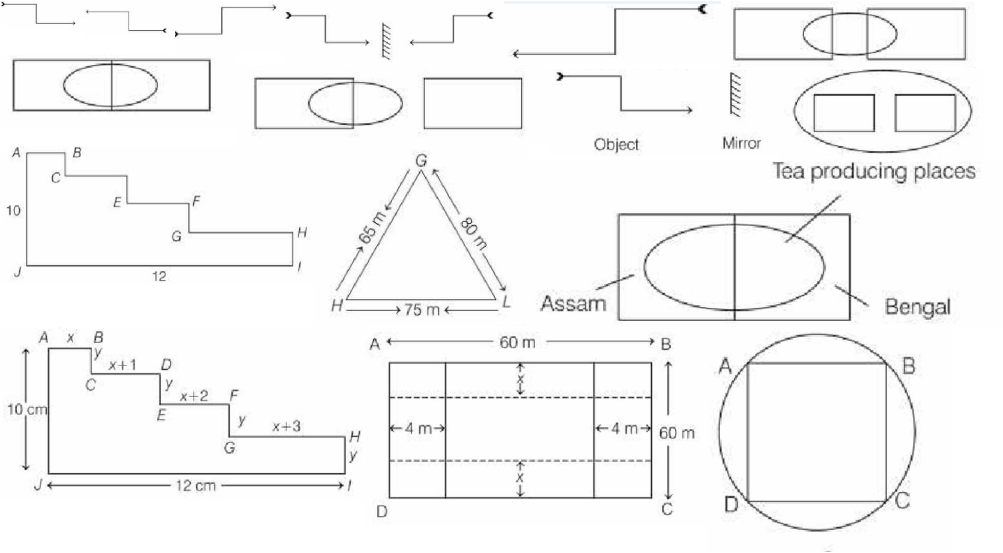
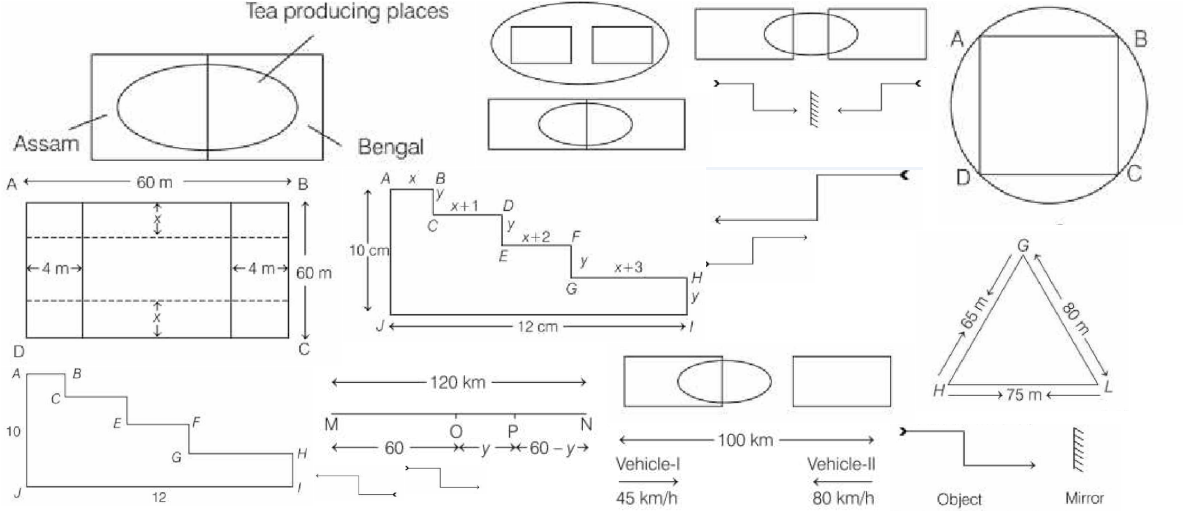
Fixed

diff --git a/img/upsc/epfo/prev/epfo_set1.css b/img/upsc/epfo/prev/epfo_set1.css
@@ -8,52 +8,58 @@ Responsive: <div class="yourspritesname"></div>
 
 
 .EPFO_2012_S_3 {max-width:213px; max-height:180px; }
-.EPFO_2012_S_3::after {content: '\00a0';display: inline-block; width:213px; height:180px; background-position: 39.74683544303797% 39.14209115281501%;background-size: 470.8920187793427% 307.22222222222223%;background-image: url(epfo_set1.png);padding: 0; }
+.EPFO_2012_S_3::after {content: '\00a0';display: inline-block; width:213px; height:180px; background-position: 94.33573635427395% 69.57831325301204%;background-size: 555.868544600939% 284.44444444444446%;background-image: url(epfo_set1.png);padding: 0; }
 div.EPFO_2012_S_3::after {max-width:213px; width:100%;height:0;padding: 0 0 84.50704225352112% 0;}
 .EPFO_2015_S_49 {max-width:341px; max-height:198px; }
-.EPFO_2015_S_49::after {content: '\00a0';display: inline-block; width:341px; height:198px; background-position: 54.98489425981873% 92.3943661971831%;background-size: 294.1348973607038% 279.2929292929293%;background-image: url(epfo_set1.png);padding: 0; }
+.EPFO_2015_S_49::after {content: '\00a0';display: inline-block; width:341px; height:198px; background-position: 0.11862396204033215% 53.503184713375795%;background-size: 347.2140762463343% 258.5858585858586%;background-image: url(epfo_set1.png);padding: 0; }
 div.EPFO_2015_S_49::after {max-width:341px; width:100%;height:0;padding: 0 0 58.064516129032256% 0;}
 .EPFO_2015_S_79 {max-width:312px; max-height:139px; }
-.EPFO_2015_S_79::after {content: '\00a0';display: inline-block; width:312px; height:139px; background-position: 0.1447178002894356% 35.265700483091784%;background-size: 321.47435897435895% 397.841726618705%;background-image: url(epfo_set1.png);padding: 0; }
+.EPFO_2015_S_79::after {content: '\00a0';display: inline-block; width:312px; height:139px; background-position: 0.11467889908256881% 98.39142091152814%;background-size: 379.4871794871795% 368.3453237410072%;background-image: url(epfo_set1.png);padding: 0; }
 div.EPFO_2015_S_79::after {max-width:312px; width:100%;height:0;padding: 0 0 44.55128205128205% 0;}
 .EPFO_2015_S_79_S {max-width:362px; max-height:174px; }
-.EPFO_2015_S_79_S::after {content: '\00a0';display: inline-block; width:362px; height:174px; background-position: 0.15600624024961% 86.2796833773087%;background-size: 277.0718232044199% 317.81609195402297%;background-image: url(epfo_set1.png);padding: 0; }
+.EPFO_2015_S_79_S::after {content: '\00a0';display: inline-block; width:362px; height:174px; background-position: 41.72749391727494% 49.70414201183432%;background-size: 327.0718232044199% 294.2528735632184%;background-image: url(epfo_set1.png);padding: 0; }
 div.EPFO_2015_S_79_S::after {max-width:362px; width:100%;height:0;padding: 0 0 48.06629834254144% 0;}
 .EPFO_2017_109_O_1 {max-width:206px; max-height:91px; }
-.EPFO_2017_109_O_1::after {content: '\00a0';display: inline-block; width:206px; height:91px; background-position: 97.74153074027603% 14.935064935064934%;background-size: 486.8932038834951% 607.6923076923077%;background-image: url(epfo_set1.png);padding: 0; }
+.EPFO_2017_109_O_1::after {content: '\00a0';display: inline-block; width:206px; height:91px; background-position: 48.670756646216766% 0.2375296912114014%;background-size: 574.757281553398% 562.6373626373627%;background-image: url(epfo_set1.png);padding: 0; }
 div.EPFO_2017_109_O_1::after {max-width:206px; width:100%;height:0;padding: 0 0 44.1747572815534% 0;}
 .EPFO_2017_109_O_2 {max-width:308px; max-height:80px; }
-.EPFO_2017_109_O_2::after {content: '\00a0';display: inline-block; width:308px; height:80px; background-position: 34.24460431654676% 13.742071881606766%;background-size: 325.64935064935065% 691.25%;background-image: url(epfo_set1.png);padding: 0; }
+.EPFO_2017_109_O_2::after {content: '\00a0';display: inline-block; width:308px; height:80px; background-position: 69.29223744292237% 79.39814814814815%;background-size: 384.4155844155844% 640%;background-image: url(epfo_set1.png);padding: 0; }
 div.EPFO_2017_109_O_2::after {max-width:308px; width:100%;height:0;padding: 0 0 25.974025974025974% 0;}
 .EPFO_2017_109_O_3 {max-width:254px; max-height:67px; }
-.EPFO_2017_109_O_3::after {content: '\00a0';display: inline-block; width:254px; height:67px; background-position: 96.39519359145527% 0.205761316872428%;background-size: 394.88188976377955% 825.3731343283582%;background-image: url(epfo_set1.png);padding: 0; }
+.EPFO_2017_109_O_3::after {content: '\00a0';display: inline-block; width:254px; height:67px; background-position: 73.44086021505376% 0.2247191011235955%;background-size: 466.1417322834646% 764.179104477612%;background-image: url(epfo_set1.png);padding: 0; }
 div.EPFO_2017_109_O_3::after {max-width:254px; width:100%;height:0;padding: 0 0 26.37795275590551% 0;}
 .EPFO_2017_109_S {max-width:474px; max-height:166px; }
-.EPFO_2017_109_S::after {content: '\00a0';display: inline-block; width:474px; height:166px; background-position: 99.8109640831758% 41.60206718346253%;background-size: 211.60337552742615% 333.13253012048193%;background-image: url(epfo_set1.png);padding: 0; }
+.EPFO_2017_109_S::after {content: '\00a0';display: inline-block; width:474px; height:166px; background-position: 0.14084507042253522% 0.28901734104046245%;background-size: 249.78902953586498% 308.43373493975906%;background-image: url(epfo_set1.png);padding: 0; }
 div.EPFO_2017_109_S::after {max-width:474px; width:100%;height:0;padding: 0 0 35.0210970464135% 0;}
+.EPFO_2017_113_S {max-width:292px; max-height:97px; }
+.EPFO_2017_113_S::after {content: '\00a0';display: inline-block; width:292px; height:97px; background-position: 35.2017937219731% 88.43373493975903%;background-size: 405.47945205479454% 527.8350515463917%;background-image: url(epfo_set1.png);padding: 0; }
+div.EPFO_2017_113_S::after {max-width:292px; width:100%;height:0;padding: 0 0 33.21917808219178% 0;}
 .EPFO_2017_118_O_1 {max-width:217px; max-height:63px; }
-.EPFO_2017_118_O_1::after {content: '\00a0';display: inline-block; width:217px; height:63px; background-position: 64.12213740458016% 0.20408163265306123%;background-size: 462.21198156682027% 877.7777777777778%;background-image: url(epfo_set1.png);padding: 0; }
+.EPFO_2017_118_O_1::after {content: '\00a0';display: inline-block; width:217px; height:63px; background-position: 73.00930713547052% 37.193763919821826%;background-size: 545.6221198156682% 812.6984126984127%;background-image: url(epfo_set1.png);padding: 0; }
 div.EPFO_2017_118_O_1::after {max-width:217px; width:100%;height:0;padding: 0 0 29.032258064516128% 0;}
 .EPFO_2017_118_O_2 {max-width:82px; max-height:29px; }
-.EPFO_2017_118_O_2::after {content: '\00a0';display: inline-block; width:82px; height:29px; background-position: 0.10857763300760044% 0.19083969465648856%;background-size: 1223.1707317073171% 1906.896551724138%;background-image: url(epfo_set1.png);padding: 0; }
+.EPFO_2017_118_O_2::after {content: '\00a0';display: inline-block; width:82px; height:29px; background-position: 36.7513611615245% 96.27329192546584%;background-size: 1443.9024390243903% 1765.5172413793102%;background-image: url(epfo_set1.png);padding: 0; }
 div.EPFO_2017_118_O_2::after {max-width:82px; width:100%;height:0;padding: 0 0 35.36585365853659% 0;}
 .EPFO_2017_118_O_3 {max-width:109px; max-height:52px; }
-.EPFO_2017_118_O_3::after {content: '\00a0';display: inline-block; width:109px; height:52px; background-position: 19.574944071588366% 0.1996007984031936%;background-size: 920.183486238532% 1063.4615384615386%;background-image: url(epfo_set1.png);padding: 0; }
+.EPFO_2017_118_O_3::after {content: '\00a0';display: inline-block; width:109px; height:52px; background-position: 65.67441860465117% 50.21739130434783%;background-size: 1086.2385321100917% 984.6153846153846%;background-image: url(epfo_set1.png);padding: 0; }
 div.EPFO_2017_118_O_3::after {max-width:109px; width:100%;height:0;padding: 0 0 47.706422018348626% 0;}
 .EPFO_2017_118_O_4 {max-width:90px; max-height:36px; }
-.EPFO_2017_118_O_4::after {content: '\00a0';display: inline-block; width:90px; height:36px; background-position: 9.200438116100766% 0.19342359767891681%;background-size: 1114.4444444444443% 1536.111111111111%;background-image: url(epfo_set1.png);padding: 0; }
+.EPFO_2017_118_O_4::after {content: '\00a0';display: inline-block; width:90px; height:36px; background-position: 28.70201096892139% 97.6890756302521%;background-size: 1315.5555555555557% 1422.2222222222222%;background-image: url(epfo_set1.png);padding: 0; }
 div.EPFO_2017_118_O_4::after {max-width:90px; width:100%;height:0;padding: 0 0 40% 0;}
 .EPFO_2017_Q_118 {max-width:231px; max-height:87px; }
-.EPFO_2017_Q_118::after {content: '\00a0';display: inline-block; width:231px; height:87px; background-position: 70.85492227979275% 14.806866952789699%;background-size: 434.1991341991342% 635.6321839080459%;background-image: url(epfo_set1.png);padding: 0; }
+.EPFO_2017_Q_118::after {content: '\00a0';display: inline-block; width:231px; height:87px; background-position: 93.38929695697796% 99.76470588235294%;background-size: 512.5541125541125% 588.5057471264367%;background-image: url(epfo_set1.png);padding: 0; }
 div.EPFO_2017_Q_118::after {max-width:231px; width:100%;height:0;padding: 0 0 37.66233766233766% 0;}
+.EPFO_2017_S_106_sol {max-width:282px; max-height:87px; }
+.EPFO_2017_S_106_sol::after {content: '\00a0';display: inline-block; width:282px; height:87px; background-position: 67.29490022172949% 99.76470588235294%;background-size: 419.8581560283688% 588.5057471264367%;background-image: url(epfo_set1.png);padding: 0; }
+div.EPFO_2017_S_106_sol::after {max-width:282px; width:100%;height:0;padding: 0 0 30.851063829787233% 0;}
 .EPFO_2017_S_117 {max-width:245px; max-height:224px; }
-.EPFO_2017_S_117::after {content: '\00a0';display: inline-block; width:245px; height:224px; background-position: 93.13984168865436% 99.69604863221885%;background-size: 409.38775510204084% 246.875%;background-image: url(epfo_set1.png);padding: 0; }
+.EPFO_2017_S_117::after {content: '\00a0';display: inline-block; width:245px; height:224px; background-position: 99.89350372736955% 0.3472222222222222%;background-size: 483.265306122449% 228.57142857142858%;background-image: url(epfo_set1.png);padding: 0; }
 div.EPFO_2017_S_117::after {max-width:245px; width:100%;height:0;padding: 0 0 91.42857142857143% 0;}
 .EPFO_2017_S_118 {max-width:218px; max-height:62px; }
-.EPFO_2017_S_118::after {content: '\00a0';display: inline-block; width:218px; height:62px; background-position: 36.30573248407644% 0.20366598778004075%;background-size: 460.091743119266% 891.9354838709677%;background-image: url(epfo_set1.png);padding: 0; }
+.EPFO_2017_S_118::after {content: '\00a0';display: inline-block; width:218px; height:62px; background-position: 73.80952380952381% 15.333333333333334%;background-size: 543.1192660550458% 825.8064516129032%;background-image: url(epfo_set1.png);padding: 0; }
 div.EPFO_2017_S_118::after {max-width:218px; width:100%;height:0;padding: 0 0 28.440366972477065% 0;}
 .EPOF_2017_109_O_4 {max-width:236px; max-height:73px; }
-.EPOF_2017_109_O_4::after {content: '\00a0';display: inline-block; width:236px; height:73px; background-position: 0.1303780964797914% 11.25%;background-size: 425% 757.5342465753424%;background-image: url(epfo_set1.png);padding: 0; }
+.EPOF_2017_109_O_4::after {content: '\00a0';display: inline-block; width:236px; height:73px; background-position: 50.21097046413502% 21.184510250569478%;background-size: 501.6949152542373% 701.3698630136986%;background-image: url(epfo_set1.png);padding: 0; }
 div.EPOF_2017_109_O_4::after {max-width:236px; width:100%;height:0;padding: 0 0 30.93220338983051% 0;}
 
-/* $TexturePacker:SmartUpdate:73651b35f6e972504a966556b6158c22:eb8a25f861406084ac19ed7652f32696:e66cf7caf622a7a9cb66901ffe6a8dc0$ */
+/* $TexturePacker:SmartUpdate:396dd03871577aa3da0850c33e34972d:034532d4c038c71062253b884338be08:e66cf7caf622a7a9cb66901ffe6a8dc0$ */
